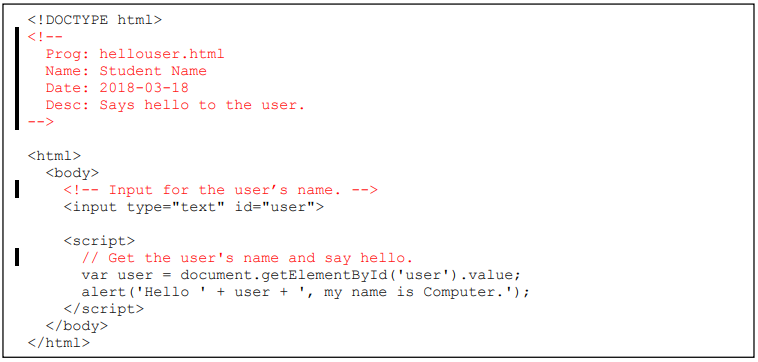
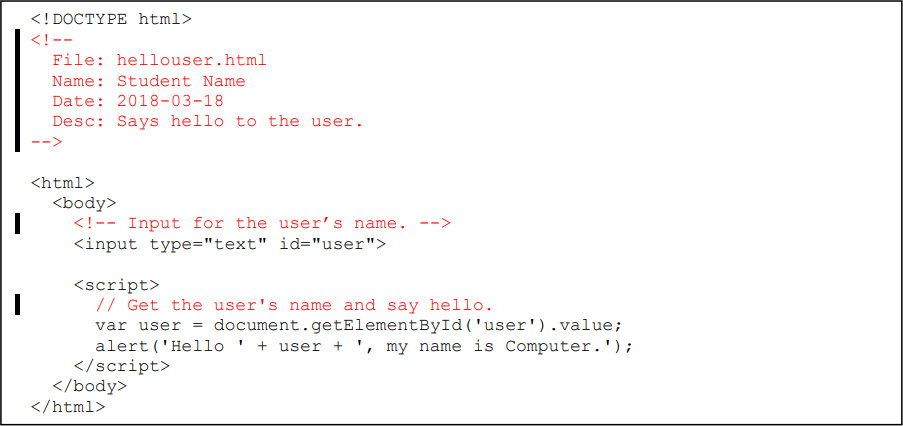
Change docstring format (rename Prog to File)

Changed region(s): [[0.0, 0.0, 1.0, 1.0]]

diff --git a/2_webFundamentals/lessons/3_commenting/README.md b/2_webFundamentals/lessons/3_commenting/README.md
@@ -83,7 +83,7 @@ These exercises will **always** require you to:
     ```html
     <!DOCTYPE html>
     <!--
-      Prog: [program name.html]
+      File: [program name.html]
       Name: [Your Name]
       Date: [Date the program was written]
       Desc: [Brief, 1-sentence description.]
